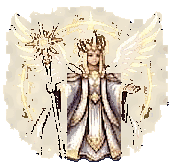
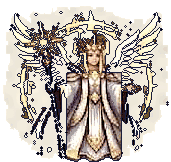
夥伴修正：補回被去背吃掉的頭部、角色和背景分開
- 馴獸師第 2 階段：白色帽沿當初被當成背景去掉，依輪廓補畫回來
- 死靈法師第 1、2 階段：兜帽的灰紫色部分被去掉，依輪廓補回來（pixel_polish 新增 patch）
- 精靈使第 5 階段：柔光再透明一些，人和柔光的交界補上深色描邊，人不再融進光裡
- 全部場景：背景調暗、降彩度，角色背後一圈聚光；魅魔、死靈法師、惡魔、哥布林等暗色場景加淺色輪廓光，
  天海神龍、火龍加深色輪廓，角色不會被背景吃掉
- sw.js 快取版本 v37

Claude-Session: https://claude.ai/code/session_016wQJDqNmeMZi3CzSXZ7hYD

diff --git a/web/style.css b/web/style.css
@@ -1039,3 +1039,29 @@ ol.steps { margin: 0; padding-left: 1.4em; font-size: .9375rem; line-height: 1.7
   .pet.hop .wavy.rig { animation: hop .6s cubic-bezier(.3, 1.6, .5, 1) 1; }
   .pet.floaty.hop .wavy.rig { animation: lift .7s cubic-bezier(.3, 1.4, .5, 1) 1; }
 }
+
+/* ── 前後景分離：背景調暗、降彩度，角色背後一圈聚光；暗色場景再加淺色輪廓光，角色才不會被背景吃掉 ── */
+.stage.has-scene .scene-art { filter: brightness(var(--bg-dim, .8)) saturate(.82); }
+.stage.has-scene::after { content: ""; position: absolute; inset: 0; z-index: 0; pointer-events: none;
+  background: radial-gradient(ellipse 38% 46% at 50% 64%, rgba(var(--spot, 255, 244, 225), var(--spot-a, .22)), rgba(var(--spot, 255, 244, 225), 0) 72%); }
+.stage.has-scene .pet { z-index: 2; }
+.stage[data-scene="succubus"] { --bg-dim: .7; --spot: 235, 190, 255; --spot-a: .26; }
+.stage[data-scene="necromancer"] { --bg-dim: .72; --spot: 190, 255, 215; --spot-a: .22; }
+.stage[data-scene="demon"] { --bg-dim: .7; --spot: 255, 200, 150; --spot-a: .2; }
+.stage[data-scene="goblin"] { --bg-dim: .75; --spot: 255, 220, 160; --spot-a: .24; }
+.stage[data-scene="sea_dragon"] { --bg-dim: .85; --spot: 255, 240, 210; --spot-a: .32; }
+.stage[data-scene="flame_dragon"] { --bg-dim: .75; --spot: 255, 235, 200; --spot-a: .18; }
+.stage[data-scene="spirit"] { --bg-dim: .75; }
+.stage[data-scene="beast_tamer"], .stage[data-scene="golem"], .stage[data-scene="paladin"], .stage[data-scene="fox_spirit"] { --bg-dim: .86; }
+.stage[data-scene="succubus"] .pet img, .stage[data-scene="succubus"] .pet .wavy {
+  filter: drop-shadow(0 0 1px rgba(240, 215, 255, .9)) drop-shadow(2px 0 0 rgba(225, 60, 95, .7)) drop-shadow(0 0 10px rgba(170, 90, 240, .45)); }
+.stage[data-scene="necromancer"] .pet img, .stage[data-scene="necromancer"] .pet .wavy {
+  filter: drop-shadow(0 0 1px rgba(200, 255, 220, .9)) drop-shadow(2px 0 0 rgba(140, 240, 170, .6)) drop-shadow(0 0 10px rgba(80, 210, 130, .35)); }
+.stage[data-scene="demon"] .pet img, .stage[data-scene="demon"] .pet .wavy {
+  filter: drop-shadow(0 0 1px rgba(255, 220, 180, .85)) drop-shadow(2px 0 0 rgba(255, 120, 50, .6)) drop-shadow(0 0 10px rgba(255, 80, 30, .35)); }
+.stage[data-scene="goblin"] .pet img, .stage[data-scene="goblin"] .pet .wavy {
+  filter: drop-shadow(0 0 1px rgba(255, 235, 190, .85)) drop-shadow(-2px 0 0 rgba(255, 180, 90, .55)) drop-shadow(0 0 8px rgba(190, 230, 70, .25)); }
+.stage[data-scene="sea_dragon"] .pet img, .stage[data-scene="sea_dragon"] .pet .wavy {
+  filter: drop-shadow(0 0 1px rgba(20, 30, 60, .9)) drop-shadow(2px 0 0 rgba(255, 236, 190, .6)) drop-shadow(0 0 10px rgba(255, 240, 200, .35)); }
+.stage[data-scene="flame_dragon"] .pet img, .stage[data-scene="flame_dragon"] .pet .wavy {
+  filter: drop-shadow(0 0 1px rgba(40, 10, 20, .9)) drop-shadow(-2px 0 0 rgba(255, 200, 120, .6)) drop-shadow(0 0 10px rgba(255, 140, 40, .3)); }

diff --git a/web/sw.js b/web/sw.js
@@ -1,5 +1,5 @@
 // 只快取 App 外殼，讓主畫面圖示在網路不穩時也打得開；API 一律走網路。
-const CACHE = "ic8-shell-v36";
+const CACHE = "ic8-shell-v37";
 const SHELL = ["/", "/style.css", "/js/core.js", "/js/summary.js", "/js/activity.js", "/js/analysis.js",
   "/js/me.js", "/js/brief.js", "/js/apple.js", "/js/strength.js", "/js/learn.js", "/js/runner.js", "/js/share.js", "/js/main.js", "/manifest.webmanifest", "/characters/manifest.json", "/icons/apple-touch-icon.png"];
 

diff --git a/tools/pixel_polish.py b/tools/pixel_polish.py
@@ -174,7 +174,7 @@ def shift_hue(img, lo, hi, by, darken=1.0, min_sat=40):
     return Image.fromarray(hsv.astype(np.uint8), "HSV").convert("RGB")
 
 
-def polish(path, colors=96, sat=1.12, contrast=1.06, holes=False, hue=None, debris=False, aura=None, min_bit=8, tint=None, smooth=None, outside=None, recolor=None, peel=8, blobs=False):
+def polish(path, colors=96, sat=1.12, contrast=1.06, holes=False, hue=None, debris=False, aura=None, min_bit=8, tint=None, smooth=None, outside=None, recolor=None, peel=8, blobs=False, patch=None):
     im = Image.open(path).convert("RGBA")
     a = np.array(im)
     mask = a[..., 3] > 0
@@ -198,6 +198,19 @@ def polish(path, colors=96, sat=1.12, contrast=1.06, holes=False, hue=None, debr
         mask = drop_debris(a, mask)
     if blobs:
         mask = drop_grey_blobs(a, mask)
+    for pt in patch or []:                         # 補畫被去背吃掉的部位，例如白色帽沿
+        cx, cy, rx, ry = pt["ellipse"]
+        yy, xx = np.mgrid[0:mask.shape[0], 0:mask.shape[1]]
+        inside = ((xx - cx) / rx) ** 2 + ((yy - cy) / ry) ** 2 <= 1
+        fill = inside & ~mask
+        if pt.get("overwrite"):                    # 範圍內原本的雜點也蓋掉，只保留 keep 框
+            fill = inside.copy()
+            for x0, y0, x1, y1 in pt.get("keep", ()):
+                fill[y0:y1, x0:x1] = False
+        col = np.where((yy >= cy)[..., None], np.array(pt.get("shade", pt["color"])), np.array(pt["color"]))
+        a[fill, :3] = col[fill]
+        a[fill, 3] = 255
+        mask = mask | fill
     lab, n = ndimage.label(mask)
     if n:
         sizes = ndimage.sum(mask, lab, range(1, n + 1))
@@ -222,9 +235,11 @@ def polish(path, colors=96, sat=1.12, contrast=1.06, holes=False, hue=None, debr
     arr[~mask] = np.median(fill, axis=0).astype(np.uint8) if len(fill) else 0
     q = np.array(Image.fromarray(arr).quantize(colors=colors, method=Image.Quantize.FASTOCTREE, dither=Image.Dither.NONE).convert("RGB"))
     alpha = np.where(mask, 255, 0).astype(np.uint8)
+    glow = np.zeros_like(mask)
     for sel, al in soft:
         alpha[sel & mask] = al
         body &= ~sel                               # 半透明的光不加墨線
+        glow |= sel & mask
     out = np.dstack([q, alpha])
     H, W = mask.shape
     pad = np.zeros((H + 2, W + 2, 4), np.uint8)
@@ -233,6 +248,9 @@ def polish(path, colors=96, sat=1.12, contrast=1.06, holes=False, hue=None, debr
     m2 = np.zeros((H + 2, W + 2), bool); m2[1:-1, 1:-1] = mask
     edge = ndimage.binary_dilation(b2, CROSS) & ~m2
     pad[edge] = (*INK, 255)
+    if glow.any():                                 # 人和柔光的交界也描一圈，人才不會融進光裡
+        g2 = np.zeros((H + 2, W + 2), bool); g2[1:-1, 1:-1] = glow
+        pad[ndimage.binary_dilation(b2, CROSS) & g2] = (*INK, 255)
     return Image.fromarray(pad)
 
 
@@ -244,9 +262,12 @@ TUNE = {
         3: {"tint": {"max_sat": 80, "vmin": 40, "vmax": 215, "protect": [(38, 35, 86, 162), (0, 28, 22, 105), (98, 28, 128, 74)]}},
         4: {"tint": {"hue": (0, 70), "max_sat": 95, "vmin": 40, "vmax": 205, "protect": [(52, 28, 122, 155), (30, 18, 62, 150)]}},
         5: {"holes": False, "smooth": {"protect": [(86, 44, 104, 70), (66, 72, 120, 160)], "max_sat": 95, "vmax": 224, "sigma": 3,
-                                       "glow": (255, 236, 190), "mix": 0.55, "alpha": 120}}}},
+                                       "glow": (255, 236, 190), "mix": 0.55, "alpha": 85}}}},
     # 死靈法師：第 3 階段紫水晶裡的棋盤格、第 5 階段紫色煙霧裡的棋盤格 → 抹平成半透明紫色靈氣（白色幽靈保留）
     "necromancer": {"sat": 1.1, "contrast": 1.1, "debris": True, "min_bit": 24, "holes": True, "stages": {
+        # 第 1、2 階段兜帽的灰紫色部分當初被當成背景去掉了，依輪廓補回來
+        1: {"patch": [{"ellipse": (40, 15, 10, 8), "color": (62, 56, 70), "shade": (46, 41, 54)}]},
+        2: {"patch": [{"ellipse": (57, 14, 12, 13), "color": (56, 52, 62), "shade": (42, 38, 46)}]},
         3: {"smooth": [{"hue": (225, 320), "max_sat": 200, "vmin": 50, "vmax": 225, "boxes": [(98, 2, 131, 48)], "sigma": 2,
                         "glow": (150, 90, 230), "mix": 0.3, "alpha": 190},
                        {"max_sat": 45, "vmin": 80, "vmax": 220, "boxes": [(98, 2, 131, 48)], "sigma": 2,
@@ -272,8 +293,11 @@ TUNE = {
     # 魅魔：跟九尾狐的粉紅分開 → 粉紅轉成深紫紅、整體暗一點；翅膀和魔力圈裡夾著背景棋盤格
     "succubus": {"sat": 1.2, "contrast": 1.12, "holes": True, "hue": [(296, 8, -30, 0.84)]},
     # 馴獸師：原圖滿是棋盤格細線殘渣；第 5 階段背後的紫色星空混了棋盤格，整片挖掉改用程式畫光暈
+    # 第 2 階段：白色帽沿當初被當成背景去掉了，依輪廓補畫回來
     "beast_tamer": {"sat": 1.15, "contrast": 1.08, "debris": True, "min_bit": 24,
-                    "stages": {5: {"aura": {"hue": (150, 300), "boxes": [(0, 45, 51, 122), (51, 34, 57, 94), (118, 12, 200, 62), (122, 62, 192, 74), (88, 14, 118, 30)]}}}},
+                    "stages": {2: {"patch": [{"ellipse": (70, 21, 18, 6.5), "color": (226, 220, 204), "shade": (176, 166, 148),
+                                              "overwrite": True, "keep": [(64, 13, 77, 27)]}]},
+                               5: {"aura": {"hue": (150, 300), "boxes": [(0, 45, 51, 122), (51, 34, 57, 94), (118, 12, 200, 62), (122, 62, 192, 74), (88, 14, 118, 30)]}}}},
 }
 
 
